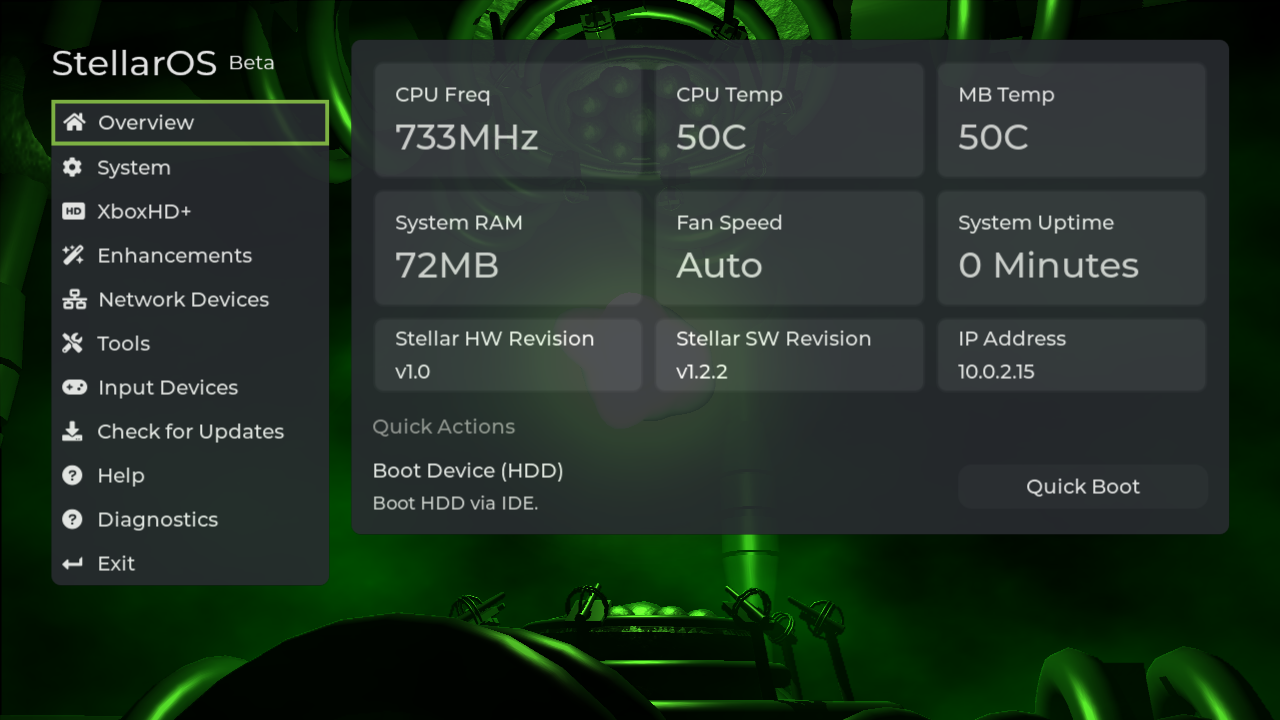
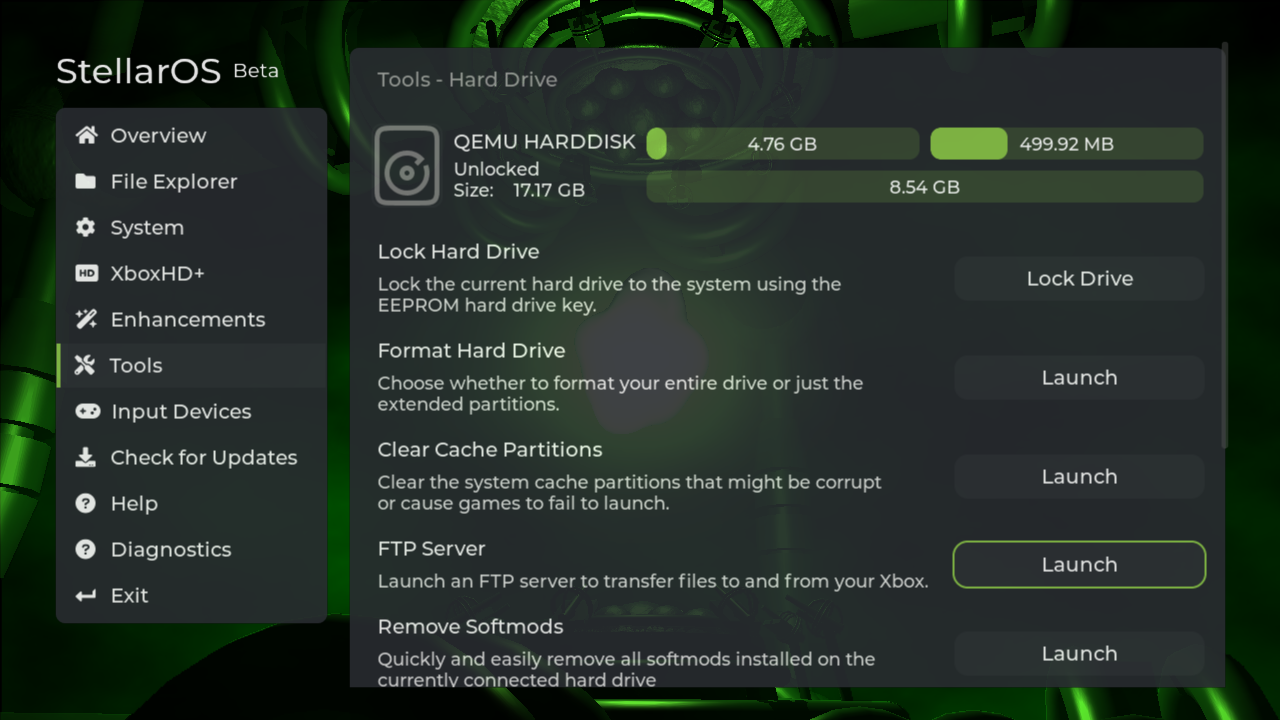
Update FTP connection guide

Changed region(s): [[0.0, 0.0, 1.0, 1.0], [0.75, 0.4583, 0.875, 0.55], [0.8125, 0.6417, 0.9062, 0.7028]]

diff --git a/docs/02-project-stellar/05-user-guide/02-xfer-files/01-ftp/index.md b/docs/02-project-stellar/05-user-guide/02-xfer-files/01-ftp/index.md
@@ -3,22 +3,20 @@ description: StellarOS has a built-in FTP server inside. By booting into Stellar
 ---
 # StellarOS FTP
 
-
-![StellarOS Overview Screen](./images/stellar_overview.png)
+![FTP Server Screen](./images/stellar_ftp.png)
 
 ## Overview
-StellarOS has a built-in FTP server inside. By booting into StellarOS, you can use an FTP client to connect and transfer files.
+StellarOS has a built-in FTP server tool. By booting into StellarOS, you can use an FTP client to connect and transfer files.
 
-|          |      |
-|----------|------|
-| **Username** | xbox |
-| **Password** | xbox |
-| **Port**     | 21   |
+:::tip
+The FTP server has been moved to a dedicated built-in tool starting with firmware version 1.6.x,
+:::
 
-## Entering StellarOS
-The first step is to enter StellarOS. The Xbox console must be on and inside of StellarOS for the FTP server to function.
+## Launching StellarOS FTP Server
+The first step is to [enter StellarOS](/project-stellar/user-guide/stellar-os/entering-stellar-os).
+Once StellarOS is load the FTP server can be launched from the ``Tools`` page.
 
-[Entering Stellar](/project-stellar/user-guide/stellar-os/entering-stellar-os)
+![StellarOS Overview Screen](./images/stellar_overview.png)
 
 ## Installing an FTP Client
 We recommend the free FileZilla FTP client for its simplicity. However, if you have another FTP client you're fond of, you're welcome to use it. While this guide will center on FileZilla, the underlying principles should remain consistent across different clients!
@@ -26,6 +24,13 @@ We recommend the free FileZilla FTP client for its simplicity. However, if you h
 [![Filezilla Logo](images/filezilla_logo.png)](https://filezilla-project.org/)
 
 ## FTP Client Settings
+
+### Connection Settings
+|          |      |
+|----------|------|
+| **Username** | xbox |
+| **Password** | xbox |
+| **Port**     | 21   |
 
 ### Maximum Simultaneous Transfers
 StellarOS is optimized, and requires, maximum simultaneous transfers to be set to 1.
